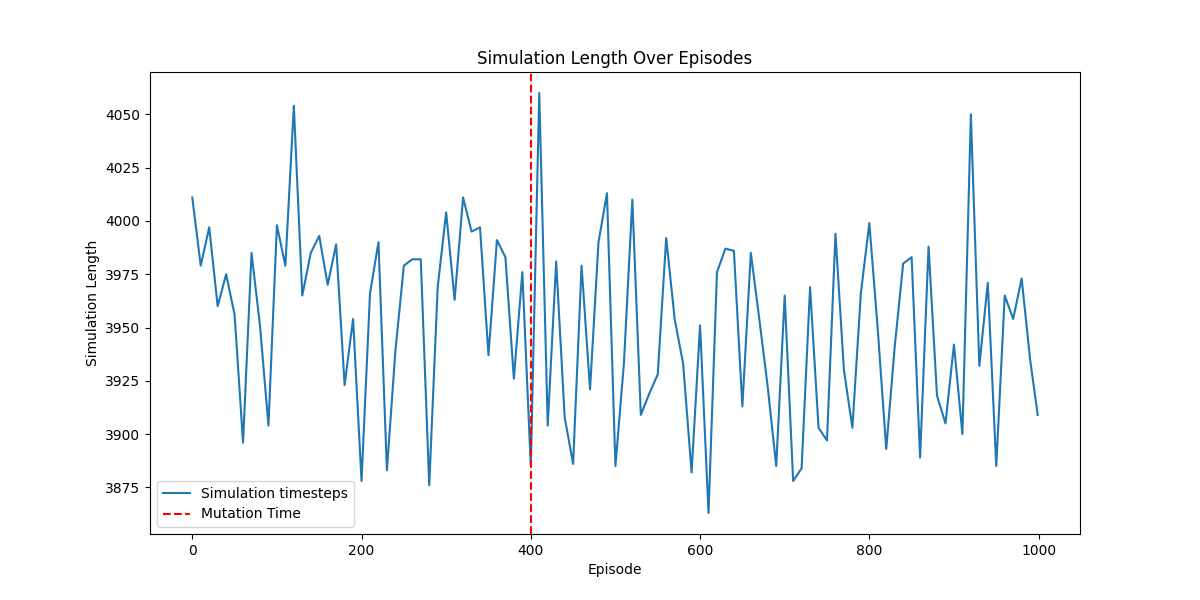
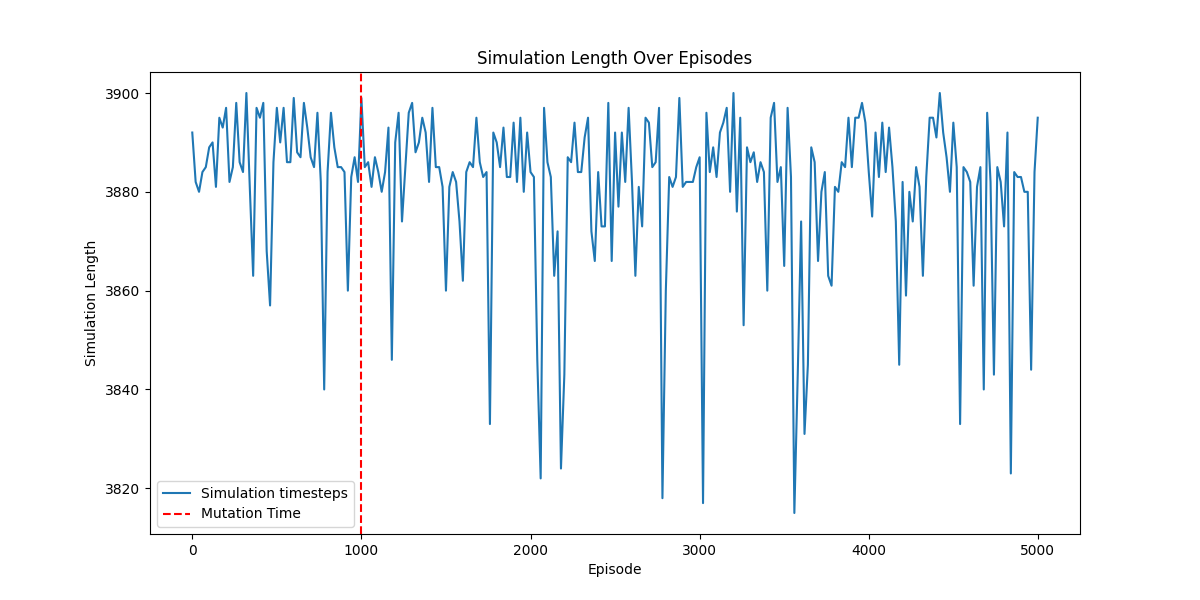
improving trainer, eps go 1, num_episodes

diff --git a/services/trainer.py b/services/trainer.py
@@ -15,57 +15,54 @@ class Trainer:
     """
 
     def __init__(self, params):
-        self.num_episodes = params[kc.NUM_EPISODES]
         self.recorder_params = params[kc.RECORDER_PARAMETERS]
         self.plotter_params = params[kc.PLOTTER_PARAMETERS]
-        self.remember_every = params[kc.REMEMBER_EVERY]
+
+        self.num_episodes = params[kc.NUM_EPISODES]
         self.mutation_time = params[kc.MUTATION_TIME]
+
+        self.remember_every = params[kc.REMEMBER_EVERY]
+        self.remember_also = {1, self.num_episodes, self.mutation_time-1, self.mutation_time}
 
 
     def train(self, env, agents):
-
+        # Create record & plot objects
         self.recorder = Recorder(self.recorder_params)
         self.plotter = Plotter(self.mutation_time, self.recorder.episodes_folder, self.recorder.agents_folder, self.recorder.sim_length_file_path, self.plotter_params)
-
         env.start()
-        
+
         print(f"\n[INFO] Training is starting with {self.num_episodes} episodes.")
-        
-        # Until we simulate num_episode episodes
         start_time = time.time()
-        for ep in range(self.num_episodes):
 
-            if ep == self.mutation_time:
-                agents = self.mutate_agents(agents)
+        for ep in range(1, self.num_episodes+1):    # Until we simulate num_episode episodes
 
+            if ep == self.mutation_time:    agents = self.mutate_agents(agents)
             observations, infos = env.reset()
             done = False
 
-            # Until the episode concludes
-            while not done:
-
-                joint_action = {kc.AGENT_ID : list(), kc.AGENT_KIND : list(), kc.ACTION : list(),
-                                kc.AGENT_ORIGIN : list(), kc.AGENT_DESTINATION : list(), kc.AGENT_START_TIME : list()}
-
-                # Every agent picks action
-                for agent, observation in zip(agents, observations):
-                    action = agent.act(observation)
-                    joint_action = self.add_action_to_joint_action(agent, action, joint_action)
-                
-                joint_action_df = pd.DataFrame(joint_action)
-                sample_observation, joint_reward_df, terminated, truncated, info = env.step(joint_action_df)
-
-                self.teach_agents(agents, joint_action_df, joint_reward_df, sample_observation)
-                
+            while not done:     # Until the episode concludes
+                joint_action = self.get_joint_action(agents, observations)
+                sample_observation, joint_reward, terminated, truncated, info = env.step(joint_action)
+                self.teach_agents(agents, joint_action, joint_reward, sample_observation)
                 done = all(terminated.values())
 
-            self.save(ep, joint_action_df, joint_reward_df, agents, env.get_last_sim_duration())
+            self.record(ep, joint_action, joint_reward, agents, env.get_last_sim_duration())
             show_progress_bar("TRAINING", start_time, ep+1, self.num_episodes)
 
         self.show_training_time(start_time)
         env.stop()
         self.plotter.visualize_all(self.recorder.episodes)
-    
+
+
+    def get_joint_action(self, agents, observations):
+        joint_action_cols = [kc.AGENT_ID, kc.AGENT_KIND, kc.ACTION, kc.AGENT_ORIGIN, kc.AGENT_DESTINATION, kc.AGENT_START_TIME]
+        joint_action = pd.DataFrame(columns = joint_action_cols)
+        # Every agent picks action
+        for agent, observation in zip(agents, observations):
+            action = agent.act(observation)
+            action_data = [agent.id, agent.kind, action, agent.origin, agent.destination, agent.start_time]
+            joint_action.loc[len(joint_action.index)] = {key : value for key, value in zip(joint_action_cols, action_data)}
+        return joint_action
 
 
     def teach_agents(self, agents, joint_action_df, joint_reward_df, observation):
@@ -73,7 +70,6 @@ class Trainer:
             futures = [executor.submit(self.learn_agent, agent, joint_action_df, joint_reward_df, observation) for agent in agents]
             concurrent.futures.wait(futures)
         
-    
 
     def learn_agent(self, agent, joint_action_df, joint_reward_df, observation):
         action = joint_action_df.loc[joint_action_df[kc.AGENT_ID] == agent.id, kc.ACTION].item()
@@ -81,20 +77,8 @@ class Trainer:
         agent.learn(action, reward, observation)
     
 
-
-    def add_action_to_joint_action(self, agent, action, joint_action):  # Add individual action to joint action
-        joint_action[kc.AGENT_ID].append(agent.id)
-        joint_action[kc.AGENT_KIND].append(agent.kind)
-        joint_action[kc.AGENT_ORIGIN].append(agent.origin)
-        joint_action[kc.AGENT_DESTINATION].append(agent.destination)
-        joint_action[kc.AGENT_START_TIME].append(agent.start_time)
-        joint_action[kc.ACTION].append(action)
-        return joint_action
-    
-
-    
-    def save(self, episode, joint_action_df, joint_reward_df, agents, last_sim_duration):
-        if (not (episode % self.remember_every)) or (episode == (self.num_episodes-1)):
+    def record(self, episode, joint_action_df, joint_reward_df, agents, last_sim_duration):
+        if (not (episode % self.remember_every)) or (episode in self.remember_also):
             self.recorder.remember_all(episode, joint_action_df, joint_reward_df, agents, last_sim_duration)
 
 
@@ -105,7 +89,7 @@ class Trainer:
                 agents[idx] = new_agent
         return agents
 
-    
+
     def show_training_time(self, start_time):
         now = time.time()
         training_time = time.strftime("%H hours, %M minutes, %S seconds", time.gmtime(now - start_time))

diff --git a/services/simulator.py b/services/simulator.py
@@ -47,7 +47,6 @@ class Simulator:
         print("[SUCCESS] Simulator is ready to simulate!")
 
 
-
     def start_sumo(self):
         self.sumo_controller.sumo_start()
 
@@ -57,12 +56,10 @@ class Simulator:
     def reset_sumo(self):
         self.sumo_controller.sumo_reset()
 
-
     
     def get_last_sim_duration(self):
         return self.last_simulation_duration
 
-        
 
     def save_paths(self, routes):
         # csv file, for us
@@ -85,7 +82,6 @@ class Simulator:
             print("</routes>", file=rou)
         
 
-
     def create_routes(self, origins, destinations):
         routes = dict()
         for origin_id, origin_sim_code in origins.items():
@@ -96,20 +92,16 @@ class Simulator:
         return routes
     
 
-
     def find_best_paths(self, origin, destination, weight):
         paths = list()
         picked_nodes = set()
-
         for _ in range(self.number_of_paths):
             while True:
                 path = path_generator(self.traffic_graph, origin, destination, weight, picked_nodes, self.beta)
                 if path not in paths: break     # if path is not already generated, then break
             paths.append(path)
             picked_nodes.update(path)
-
         return paths
-
 
 
     def free_flow_time_finder(self, x, y, z, l):
@@ -126,7 +118,6 @@ class Simulator:
         return length
     
 
-
     def calculate_free_flow_times(self):
         length = pd.DataFrame(self.traffic_graph.edges(data = True))
         time = length[2].astype('str').str.split(':',expand=True)[1]
@@ -141,7 +132,6 @@ class Simulator:
             free_flows_dict[od] = free_flow
 
         return free_flows_dict
-
 
 
     def generate_network(self, connection_file, edge_file, route_file):
@@ -198,7 +188,6 @@ class Simulator:
         return traffic_graph
     
 
-
     def joint_action_to_sorted_stack(self, joint_action):
         # Sort the joint_action dataframe by start times (descending order for stack)
         sorted_joint_action = joint_action.sort_values(kc.AGENT_START_TIME, ascending=False)
@@ -217,7 +206,6 @@ class Simulator:
 
         return agents_stack
     
-
 
     def run_simulation_iteration(self, joint_action):
         arrivals = {kc.AGENT_ID : list(), kc.ARRIVAL_TIME: list()}  # Where we save arrivals
@@ -253,7 +241,6 @@ class Simulator:
         return travel_times_df
         
 
-
     def prepare_travel_times_df(self, arrivals, joint_action):
         # Initiate the travel_time_df
         travel_times_df = pd.DataFrame(arrivals)
@@ -270,9 +257,7 @@ class Simulator:
 
         # Retain only the necessary columns
         travel_times_df = travel_times_df[[kc.AGENT_ID, kc.TRAVEL_TIME]]
-
         return travel_times_df
-
 
     
     def read_xml_file(self, file_path, element_name, attribute_name, attribute_name_2):
@@ -296,4 +281,3 @@ class Simulator:
         from_db=pd.DataFrame(from_)
         to_db=pd.DataFrame(to_)
         return from_db, to_db
-    

diff --git a/services/plotter.py b/services/plotter.py
@@ -37,7 +37,6 @@ class Plotter:
         print(f"[SUCCESS] Plotter is now here to plot!")
 
 
-
 #################### VISUALIZE ALL
 
     def visualize_all(self, episodes):
@@ -54,7 +53,6 @@ class Plotter:
         self.visualize_machine_agents_epsilons()
 
 ####################
-        
 
 
 #################### FREE FLOWS
@@ -102,8 +100,7 @@ class Plotter:
         free_flows = free_flows.astype({kc.ORIGINS: 'int', kc.DESTINATIONS: 'int', kc.PATH_INDEX: 'int', kc.FREE_FLOW_TIME: 'float'})
         return free_flows
         
-####################
-        
+####################    
 
 
 #################### REWARDS
@@ -256,7 +253,6 @@ class Plotter:
 ####################
     
 
-
 #################### ACTIONS
 
     def visualize_actions(self):
@@ -315,7 +311,6 @@ class Plotter:
             
 ####################
     
-
 
 #################### ACTION SHIFTS
     
@@ -380,7 +375,6 @@ class Plotter:
 ####################
 
 
-
 #################### FLOWS
     
     def visualize_flows(self):
@@ -428,7 +422,6 @@ class Plotter:
 ####################
     
 
-
 #################### SIM LENGTH
     
     def visualize_sim_length(self):
@@ -460,7 +453,6 @@ class Plotter:
         return sim_lengths
     
 ####################
-    
 
 
 #################### MACHINE AGENTS EPSILONS
@@ -494,12 +486,11 @@ class Plotter:
 #################### 
     
 
-
 #################### HELPERS
 
     def retrieve_all_od_pairs(self):
         all_od_pairs = list()
-        data_path = os.path.join(self.episodes_folder, f"ep0.csv")
+        data_path = os.path.join(self.episodes_folder, f"ep{self.episodes[0]}.csv")
         episode_data = pd.read_csv(data_path)
         episode_data = episode_data[[kc.AGENT_ORIGIN, kc.AGENT_DESTINATION]]
         for _, row in episode_data.iterrows():

diff --git a/environment.py b/environment.py
@@ -21,11 +21,9 @@ class TrafficEnvironment:
         self.observation_spaces = {
             agent: Box(low=0, high=1, shape=(1,), dtype=float) for agent in self.possible_agents
         }
-        
         self.action_spaces = {
             agent: Discrete(3) for agent in self.possible_agents
         }
-
         self.render_mode = render_mode
 
         print("[SUCCESS] Environment initiated!")
@@ -43,14 +41,10 @@ class TrafficEnvironment:
 
     def reset(self):
         self.simulator.reset_sumo()
-
         observations = {
             a: Box(low=0, high=1, shape=(1,), dtype=float).sample() for a in self.possible_agents
         }
-
         infos = {a: {}  for a in self.possible_agents}
-
-
         return observations, infos
 
 

diff --git a/main.py b/main.py
@@ -6,7 +6,6 @@ from utilities import confirm_env_variable
 from utilities import get_params
 
 
-
 def main(params):
     env = TrafficEnvironment(params[kc.ENVIRONMENT_PARAMETERS], params[kc.SIMULATION_PARAMETERS], params[kc.AGENTS_GENERATION_PARAMETERS]) 
     trainer = Trainer(params[kc.TRAINING_PARAMETERS])

diff --git a/README.md b/README.md
@@ -14,9 +14,11 @@ See [here](server_scripts/how_to.md).
 ### Number of agents
 1200 agents ~ around 80% humans and 20% mutating humans
 ### Training episodes
-1000 Episodes, mutation at 400
+5000 Episodes, mutation at 1000
 ### Training duration
-22 minutes, 04 seconds
+09 hours, 51 minutes, 07 seconds
+### Specs
+mem: 32G, cpus-per-task: 10, partition: cpu
 
 
 ## Collected Mean Rewards(in minutes):
